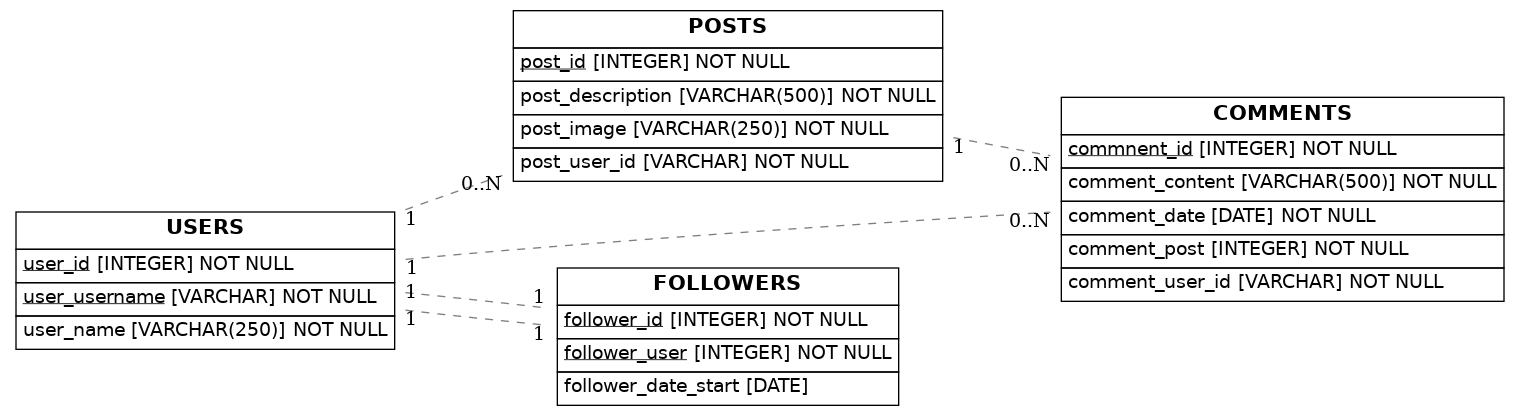
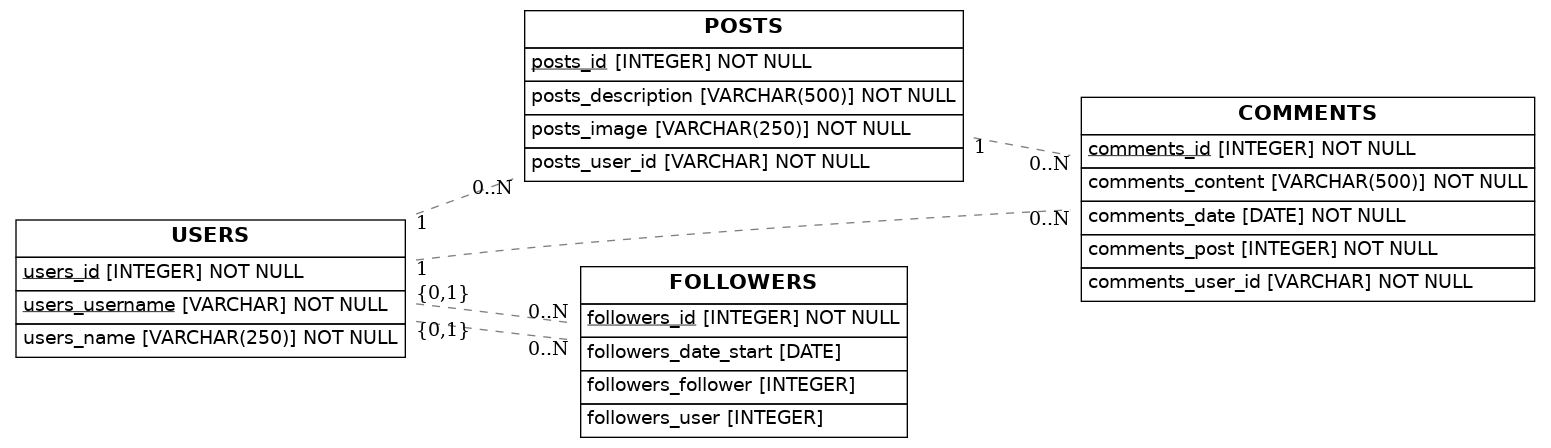
Insta Model DONE

diff --git a/src/models.py b/src/models.py
@@ -11,42 +11,43 @@ Base = declarative_base()
 
 class User(Base):
     __tablename__ = 'USERS'
-    user_id = Column(Integer, primary_key=True)
-    user_username = Column(String, primary_key=True)
-    user_name = Column(String(250), nullable=False)
+    users_id = Column(Integer, primary_key=True)
+    users_username = Column(String, primary_key=True)
+    users_name = Column(String(250), nullable=False)
     
-    user_followers = relationship('Follower', back_populates='follower_who')
+    users_followers = relationship('Follower', back_populates='follower_who')
     
 
 class Post(Base):
     __tablename__ = 'POSTS'
-    post_id = Column(Integer, primary_key=True)
-    post_user_id = Column(String, ForeignKey('USERS.user_id'), nullable=False)
-    post_image = Column(String(250), nullable=False)
-    post_description = Column(String(500), nullable=False)
+    posts_id = Column(Integer, primary_key=True)
+    posts_user_id = Column(String, ForeignKey('USERS.user_id'), nullable=False)
+    posts_image = Column(String(250), nullable=False)
+    posts_description = Column(String(500), nullable=False)
     
-    post_comments = relationship('Comment', back_populates='comment_from_post')
+    posts_comments = relationship('Comment', back_populates='comment_from_post')
     
 
 class Comment(Base):
     __tablename__ = 'COMMENTS'
-    commnent_id = Column(Integer, primary_key=True)
-    comment_user_id = Column(String, ForeignKey('USERS.user_id'), nullable=False)
-    comment_post = Column(Integer, ForeignKey('POSTS.post_id'), nullable=False)
-    comment_content = Column(String(500), nullable=False)
-    comment_date = Column(Date, nullable=False)
+    comments_id = Column(Integer, primary_key=True)
+    comments_user_id = Column(String, ForeignKey('USERS.user_id'), nullable=False)
+    comments_post = Column(Integer, ForeignKey('POSTS.post_id'), nullable=False)
+    comments_content = Column(String(500), nullable=False)
+    comments_date = Column(Date, nullable=False)
     
-    comment_from_post = relationship('Post', back_populates='post_comments')
+    comments_from_post = relationship('Post', back_populates='post_comments')
     
 
 
 class Follower(Base):
     __tablename__ = 'FOLLOWERS'
-    follower_id = Column(Integer, ForeignKey('USERS.user_id'), primary_key=True)
-    follower_user = Column(Integer, ForeignKey('USERS.user_id'), primary_key=True)
-    follower_date_start = Column(Date)
+    followers_id = Column(Integer, primary_key=True, autoincrement=True)
+    followers_user = Column(Integer, ForeignKey('USERS.user_id'))
+    followers_follower = Column(Integer, ForeignKey('USERS.user_id'))
+    followers_date_start = Column(Date)
 
-    follower_who = relationship('User', back_populates='user_followers')
+    followers_who = relationship('User', back_populates='user_followers')
 
 
 
